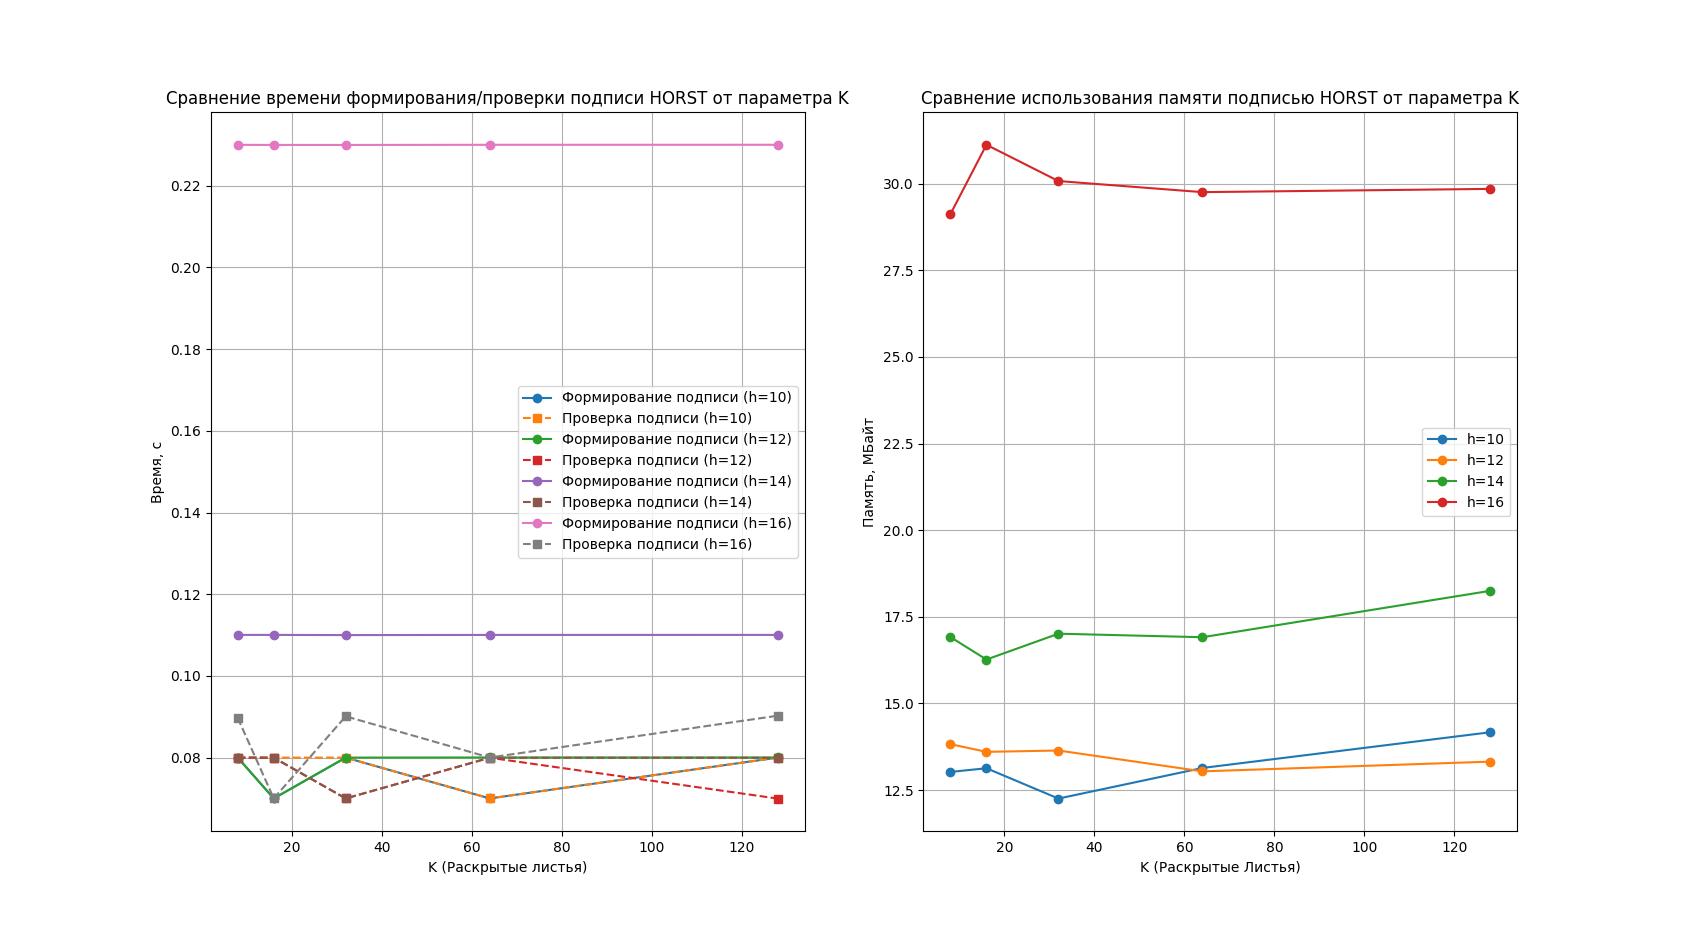
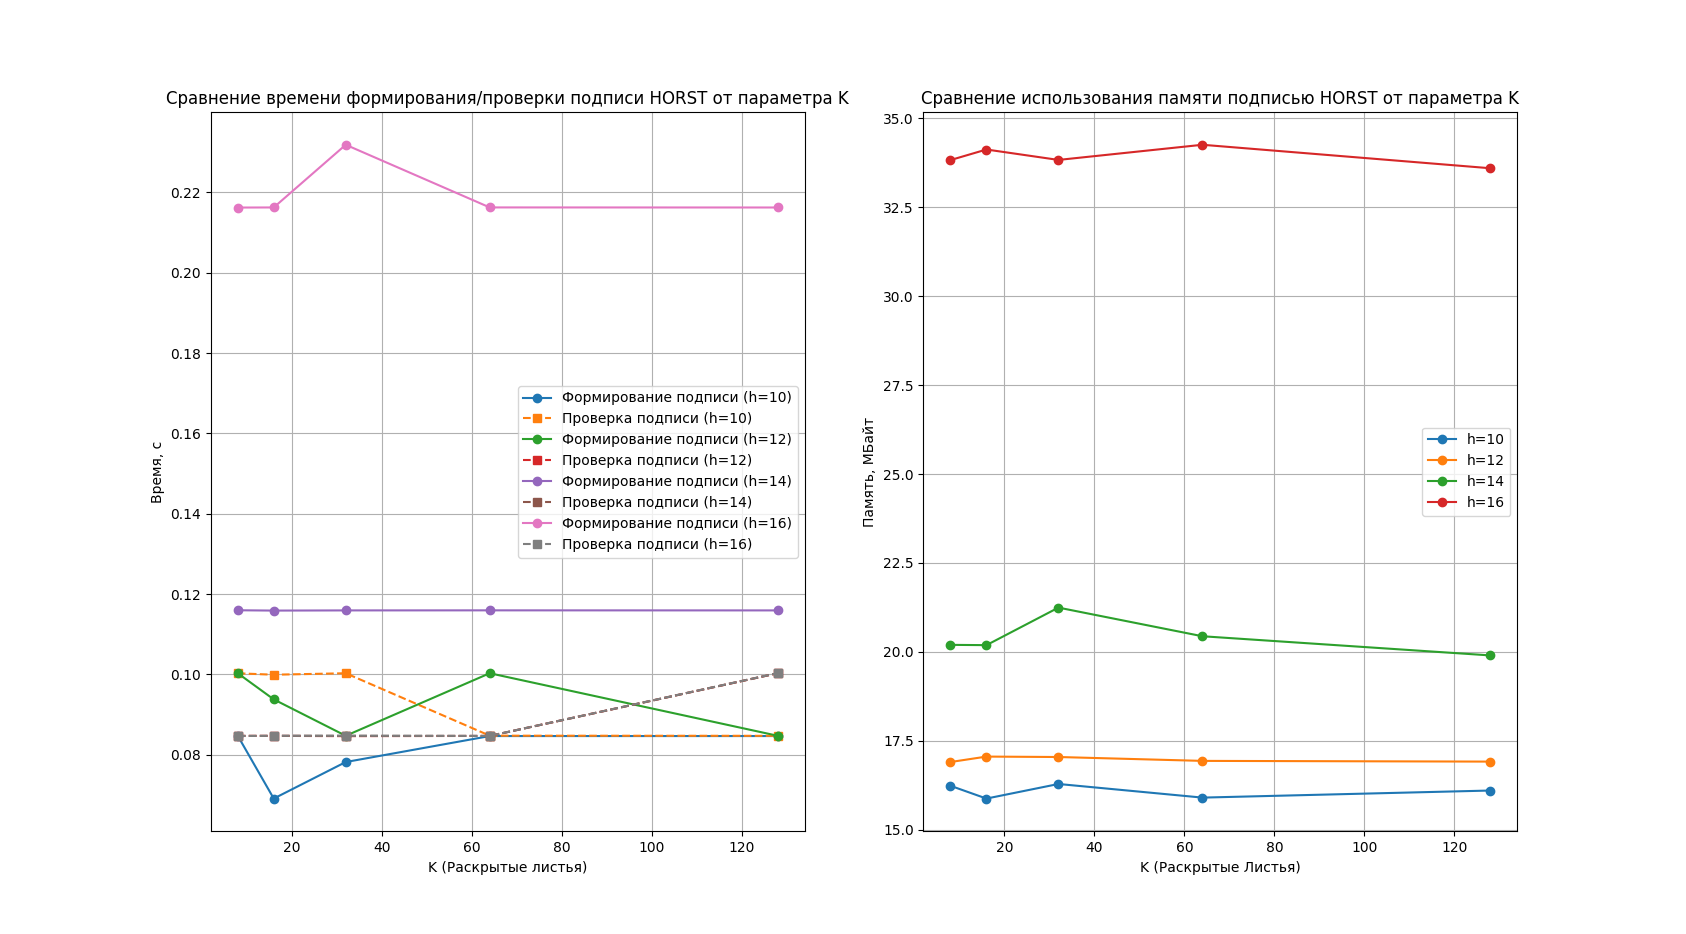
Final

diff --git a/cli/main.py b/cli/main.py
@@ -102,10 +102,10 @@ class BenchmarkGUI(tk.Tk):
         """
         names = {
             "size_comparison": "Зависимость от размеров файлов",
-            "horst_params": "Зависимость от параметра K в подписи HORST",
-            "xmss_params": "Зависимость от парамера W в подписи XMSS",
-            "horst_sigsize": "Размер подписи HORST от параметров",
-            "xmss_sigsize": "Размер подписи XMSS от параметров"
+            "horst_params": "Зависимость скорости работы и использования памяти подписи HORST от параметров",
+            "xmss_params": "Зависимость скорости работы и использования памяти подписи XMSS от параметров",
+            "horst_sigsize": "Зависимость размера подписи HORST от параметров",
+            "xmss_sigsize": "Зависимость размера подписи XMSS от параметров"
         }
         return names.get(tab_id, tab_id)
 
@@ -140,11 +140,11 @@ class BenchmarkGUI(tk.Tk):
                 sorted_rows = sorted(data[h], key=lambda x: x[0])
                 ps = [x[0] for x in sorted_rows]
                 sizes = [x[1] for x in sorted_rows]
-                ax.plot(ps, sizes, marker='o', label=f"{label} h={h}")
+                ax.plot(ps, sizes, marker='o', label=f"h={h}")
 
             ax.set_xlabel(param_label)
-            ax.set_ylabel("Размер подписи (байт)")
-            ax.set_title(f"{label}: Зависимость размера подписи от параметров")
+            ax.set_ylabel("Размер подписи, Байт")
+            ax.set_title(f"Сравнение размера подписи {label} от параметров")
             ax.legend()
             ax.grid(True)
             fig.tight_layout()
@@ -153,8 +153,6 @@ class BenchmarkGUI(tk.Tk):
 
         except Exception as e:
             self.status_var.set(f"Ошибка построения графика {scheme.upper()}: {str(e)}")
-
-
 
     def create_tab_content(self, tab_id, parent):
         """
@@ -171,10 +169,10 @@ class BenchmarkGUI(tk.Tk):
                 self.fig_horst.savefig(os.path.join(RESULTS_DIR, "plots", "horst_params.png"))
             elif tab_id == "xmss_params" and self.fig_xmss:
                 self.fig_xmss.savefig(os.path.join(RESULTS_DIR, "plots", "xmss_params.png"))
-            elif tab_id == "horst_sigsize" and self.fig_horst_param:
-                self.fig_horst_param.savefig(os.path.join(RESULTS_DIR, "plots", "horst_signature_size_depend.png"))
-            elif tab_id == "xmss_sigsize" and self.fig_xmss_param:
-                self.fig_xmss_param.savefig(os.path.join(RESULTS_DIR, "plots", "xmss_signature_size_depend.png"))
+            elif tab_id == "horst_sigsize" and self.fig_horst_sig:
+                self.fig_horst_sig.savefig(os.path.join(RESULTS_DIR, "plots", "horst_signature_size_depend.png"))
+            elif tab_id == "xmss_sigsize" and self.fig_xmss_sig:
+                self.fig_xmss_sig.savefig(os.path.join(RESULTS_DIR, "plots", "xmss_signature_size_depend.png"))
             self.status_var.set("Графики сохранены в results/plots")
 
         # Создание управляющего блока
@@ -223,9 +221,13 @@ class BenchmarkGUI(tk.Tk):
             self.fig_xmss, (self.ax_xmss_time, self.ax_xmss_mem) = plt.subplots(1, 2, figsize=(10, 4))
             self.canvas_xmss = FigureCanvasTkAgg(self.fig_xmss, master=plot_frame)
             self.canvas_xmss.get_tk_widget().pack(fill=tk.BOTH, expand=True)
+
         elif tab_id == "horst_sigsize":
-            ttk.Button(ctrl_frame, text="Построить график",
+            ttk.Button(ctrl_frame, text="Обновить график",
                        command=lambda: self.plot_signature_size('horst')).pack(fill='x', pady=5)
+            ttk.Button(ctrl_frame, text="Сохранить график",
+                       command=save_current_plots).pack(fill='x', pady=5)
+
             self.fig_horst_sig, self.ax_horst_sig = plt.subplots(figsize=(8, 5))
             self.canvas_horst_sig = FigureCanvasTkAgg(self.fig_horst_sig, master=plot_frame)
             self.canvas_horst_sig.get_tk_widget().pack(fill=tk.BOTH, expand=True)
@@ -233,6 +235,9 @@ class BenchmarkGUI(tk.Tk):
         elif tab_id == "xmss_sigsize":
             ttk.Button(ctrl_frame, text="Построить график",
                        command=lambda: self.plot_signature_size('xmss')).pack(fill='x', pady=5)
+            ttk.Button(ctrl_frame, text="Сохранить график",
+                       command=save_current_plots).pack(fill='x', pady=5)
+
             self.fig_xmss_sig, self.ax_xmss_sig = plt.subplots(figsize=(8, 5))
             self.canvas_xmss_sig = FigureCanvasTkAgg(self.fig_xmss_sig, master=plot_frame)
             self.canvas_xmss_sig.get_tk_widget().pack(fill=tk.BOTH, expand=True)
@@ -415,10 +420,9 @@ class BenchmarkGUI(tk.Tk):
             ax.plot(k_vals, sign_times, 'o-', label=f'Формирование подписи (h={param})')
             ax.plot(k_vals, verify_times, 's--', label=f'Проверка подписи (h={param})')
 
-        param_name = "K" if scheme == 'horst' else 'W'
         ax.set_xlabel('K (Раскрытые листья)' if scheme == 'horst' else 'W (Параметр Винтерница)')
         ax.set_ylabel('Время, с')
-        ax.set_title(f'Сравнение времени формирования/проверки подписи {scheme.upper()} от параметра {param_name}')
+        ax.set_title(f'Сравнение времени формирования/проверки подписи {scheme.upper()} от параметров')
         ax.legend()
         ax.grid(True)
 
@@ -443,10 +447,9 @@ class BenchmarkGUI(tk.Tk):
 
             ax.plot(k_vals, mem_vals, 'o-', label=f'h={param}')
 
-        param_name = "K" if scheme == 'horst' else 'W'
         ax.set_xlabel('K (Раскрытые Листья)' if scheme == 'horst' else 'W (Параметр Винтерница)')
         ax.set_ylabel('Память, МБайт')
-        ax.set_title(f'Сравнение использования памяти подписью {scheme.upper()} от параметра {param_name}')
+        ax.set_title(f'Сравнение использования памяти подписью {scheme.upper()} от параметров')
         ax.legend()
         ax.grid(True)
 
